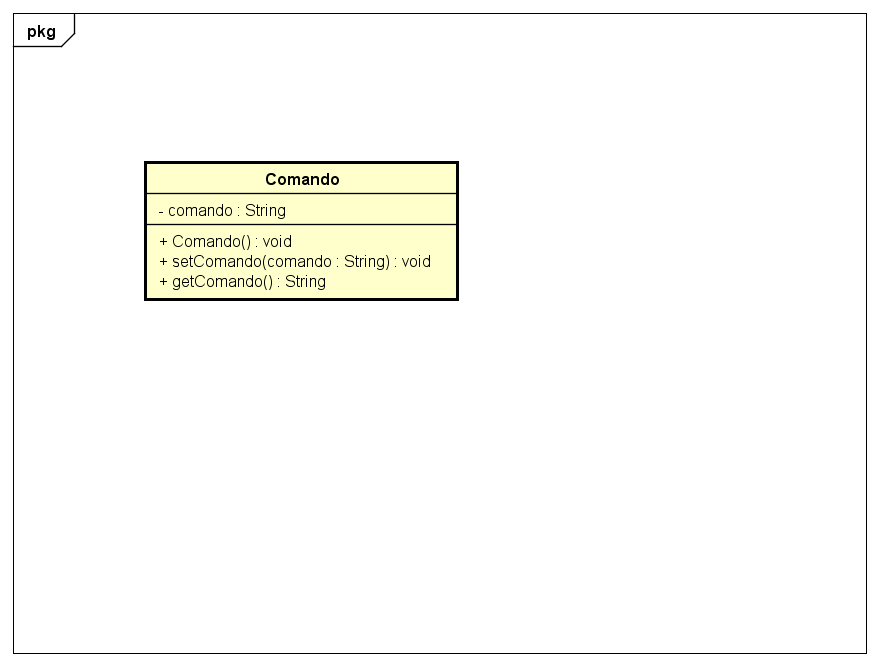
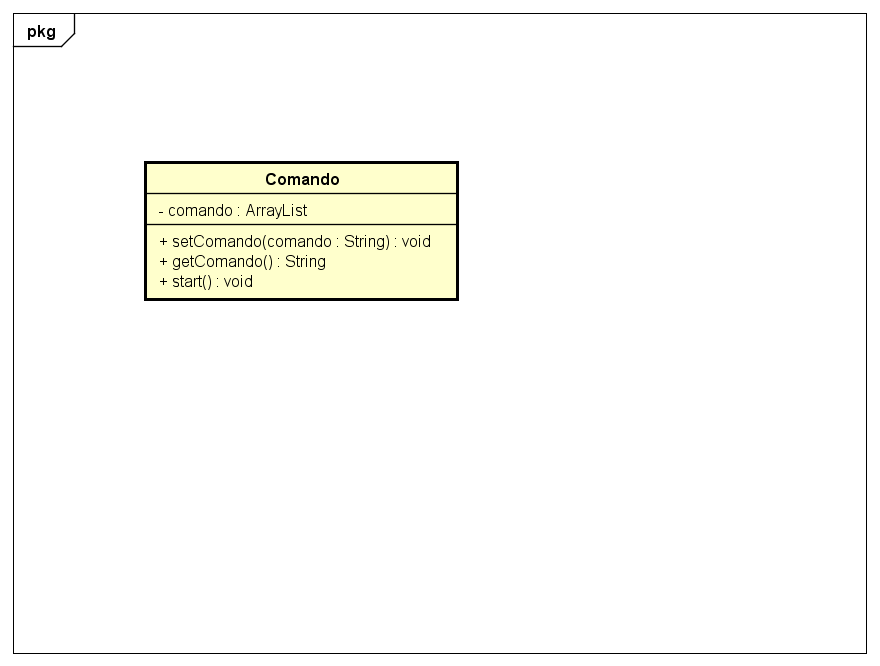
Projeto Java e Projeto Logico - Melhorias no Diagrama de Classe Comando - Criação da Class Comando

Changed region(s): [[0.1841, 0.3303, 0.4909, 0.4505], [0.2761, 0.3003, 0.3375, 0.3303]]

diff --git a/VirtualStudio/src/funcionalidades/executar/Comando.java b/VirtualStudio/src/funcionalidades/executar/Comando.java
@@ -1,0 +1,40 @@
+package funcionalidades.executar;
+
+import java.io.IOException;
+import java.util.ArrayList;
+
+import javax.swing.JOptionPane;
+
+public class Comando {
+
+	private ArrayList<String> comando;
+
+	public void setComando(String comando) {
+		this.comando = new ArrayList<String>();
+		
+		String[] linhaComando = comando.split(" ");
+		
+		for(int i = 0; i < linhaComando.length; i++) {
+			this.comando.add(linhaComando[i]);
+		}
+		
+		System.out.println(this.comando);
+
+	}
+
+	public String getComando() {
+		return this.comando.toString();
+	}
+
+	public void start() {
+		
+		ProcessBuilder processo = new ProcessBuilder(this.comando);
+		
+		try {
+		processo.start();
+		}catch(IOException e) {
+			JOptionPane.showInternalMessageDialog(null, e, "Erro ao executar comando", JOptionPane.WARNING_MESSAGE);
+		}
+	}
+
+}
